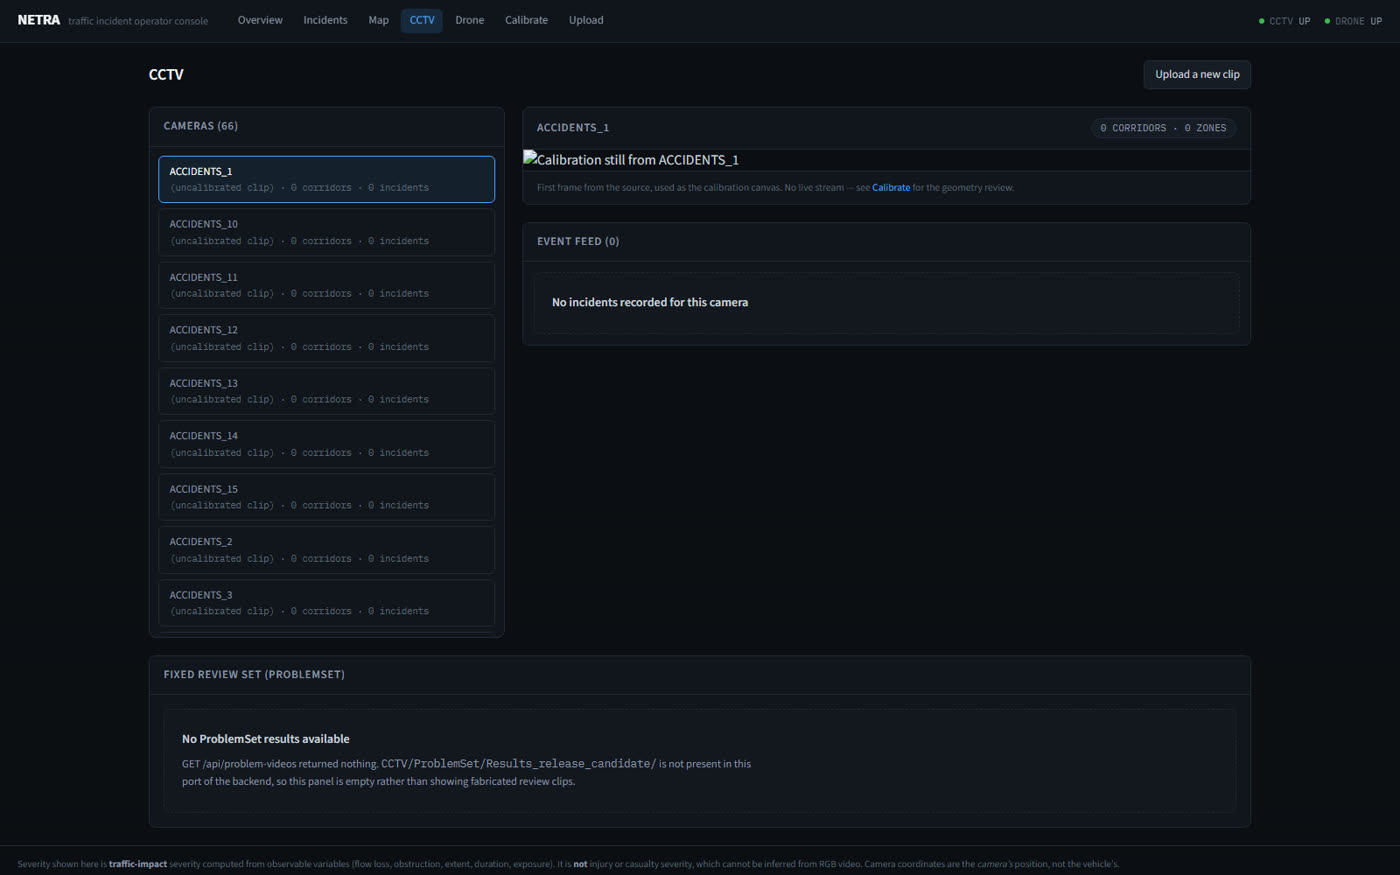
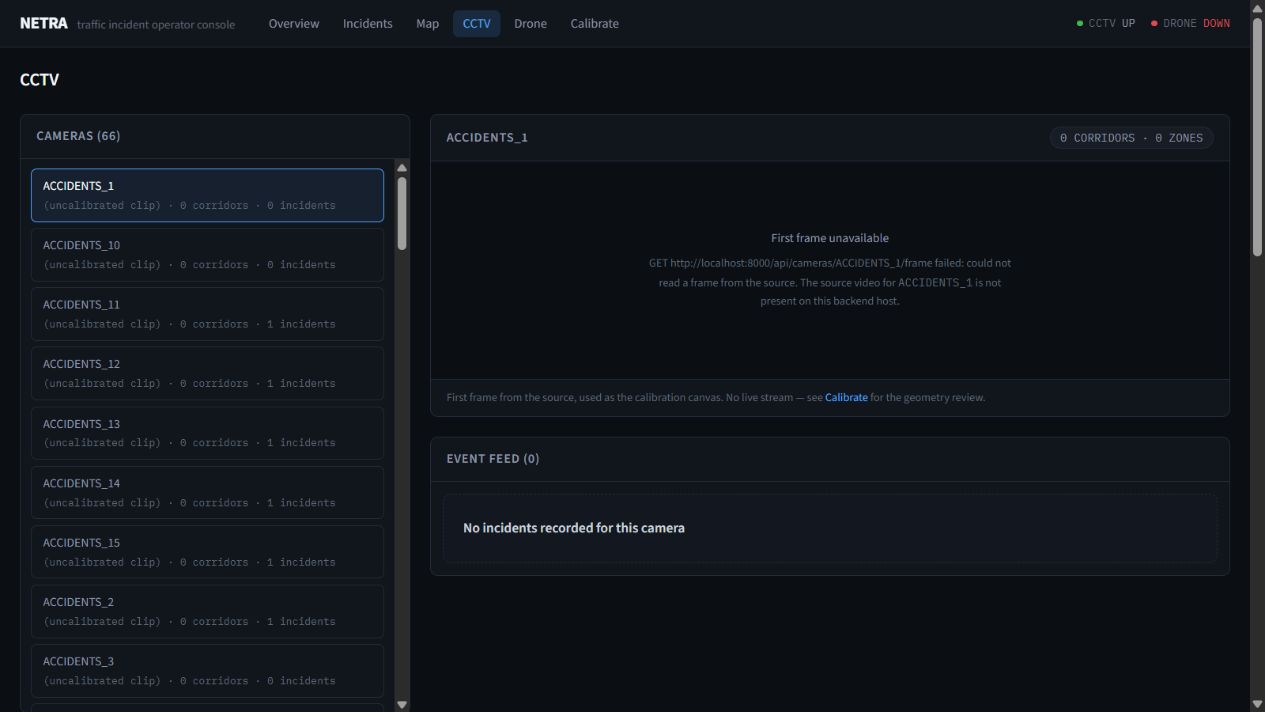
docs: refresh operator console screenshots

diff --git a/README.md b/README.md
@@ -135,33 +135,38 @@ staged: the code is complete, its recall is genuinely unmeasured because no
 positive example exists to measure it against, and that is a different claim
 from "done."
 
-### The operator console — real screenshots, backend actually running
+### Operator console
 
-Every screenshot in this section was captured against **live, running backends** (`run.py serve`
-on :8000, `DRONE/scripts/api.py` on :8011) — not a static mockup. The green `CCTV UP` / `DRONE UP`
-indicators in the top-right of every screenshot are a real, polled health check.
+These current-console captures show the operational UI as it is today. The `CCTV UP` and `DRONE DOWN`
+badges are real, independently polled health checks: the CCTV API was reachable during the capture and the
+drone API was intentionally not running. The map's Electronic City routing layer is a labelled local
+demonstration model, not a live navigation or dispatch feed.
 
 <table>
 <tr>
 <td width="33%">
 
-**Map — diversion + access routing**
-<img src="docs/assets/app_map.jpg" alt="Live Leaflet map, road-graph routing, honest unavailable state for the access route" width="100%">
-The UI honestly states *"NOT AVAILABLE — no access-route endpoint exists in the backend"* — degradation is visible, not hidden.
+**Map — Electronic City Phase 1 response routing**
+<img src="docs/assets/app_map.jpg" alt="Electronic City Phase 1 map with synthetic CCTV sites, a congested approach, and a rerouted reference-hospital path" width="100%">
+Shows the presentation model end to end: synthetic CCTV signal, a congested approach excluded from the
+local road graph, and the resulting 1,350 m / ~3.7 min reference route to Best E City Hospital. It is
+explicitly labelled illustrative; hospital availability and emergency dispatch are never inferred.
 
 </td>
 <td width="33%">
 
 **Incidents feed**
-<img src="docs/assets/app_incidents.jpg" alt="Incident feed, filters by type/status/camera, empty because this server instance has processed no footage yet" width="100%">
-Genuinely empty — this server instance hasn't had footage run through it yet. See §2's video renders for actual detections instead of a faked feed.
+<img src="docs/assets/app_incidents.jpg" alt="Current incident feed with event-type tabs, status and camera filters, and review-state cards" width="100%">
+The current feed exposes event-type tabs, status and camera filters, severity, detector confidence,
+duration, camera/source context, and the operator-verification state for each incident.
 
 </td>
 <td width="33%">
 
-**Drone page — honest not-ready state**
-<img src="docs/assets/app_drone.jpg" alt="Drone console stating NOT IMPLEMENTED with the exact appearance-mismatch reasoning" width="100%">
-States **NOT IMPLEMENTED** and explains *why* (top-down vs eye-level appearance mismatch) inline, in the product itself — not just in this README.
+**Drone console**
+<img src="docs/assets/app_drone.jpg" alt="Drone console with VisDrone detector context, hover-based escalation rationale, and independently polled unavailable backend status" width="100%">
+Separates the available detector/tracker and hover-escalation context from service health: the capture
+truthfully shows that the drone backend is down instead of presenting stale or invented live results.
 
 </td>
 </tr>
@@ -170,10 +175,9 @@ States **NOT IMPLEMENTED** and explains *why* (top-down vs eye-level appearance 
 <details>
 <summary><b>Overview and CCTV console pages</b></summary>
 
-<img src="docs/assets/app_overview.jpg" alt="Overview KPI dashboard" width="49%"> <img src="docs/assets/app_cctv.jpg" alt="CCTV camera picker and pipeline console" width="49%">
+<img src="docs/assets/app_overview.jpg" alt="Overview dashboard with incident KPIs, review workload, event-type counts, and current health badges" width="49%"> <img src="docs/assets/app_cctv.jpg" alt="CCTV console with 66-camera picker, calibration state, and per-camera event feed" width="49%">
 
 </details>
-
 ---
 
 ## 3. Architecture at a glance
